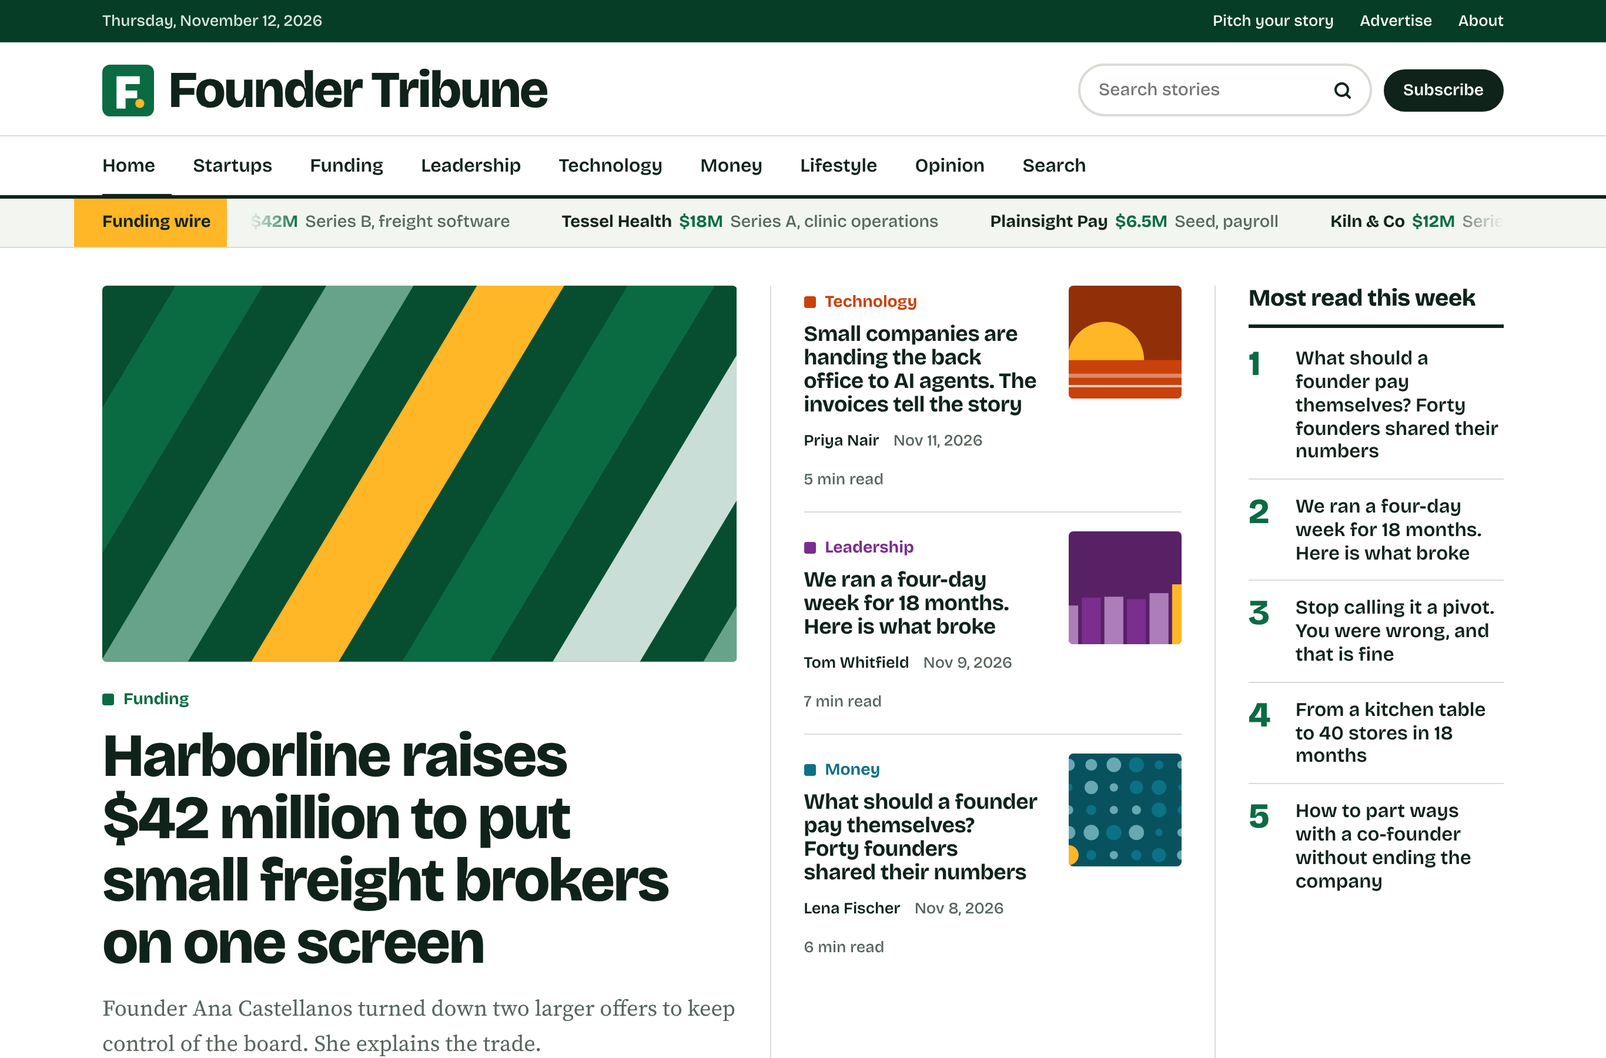
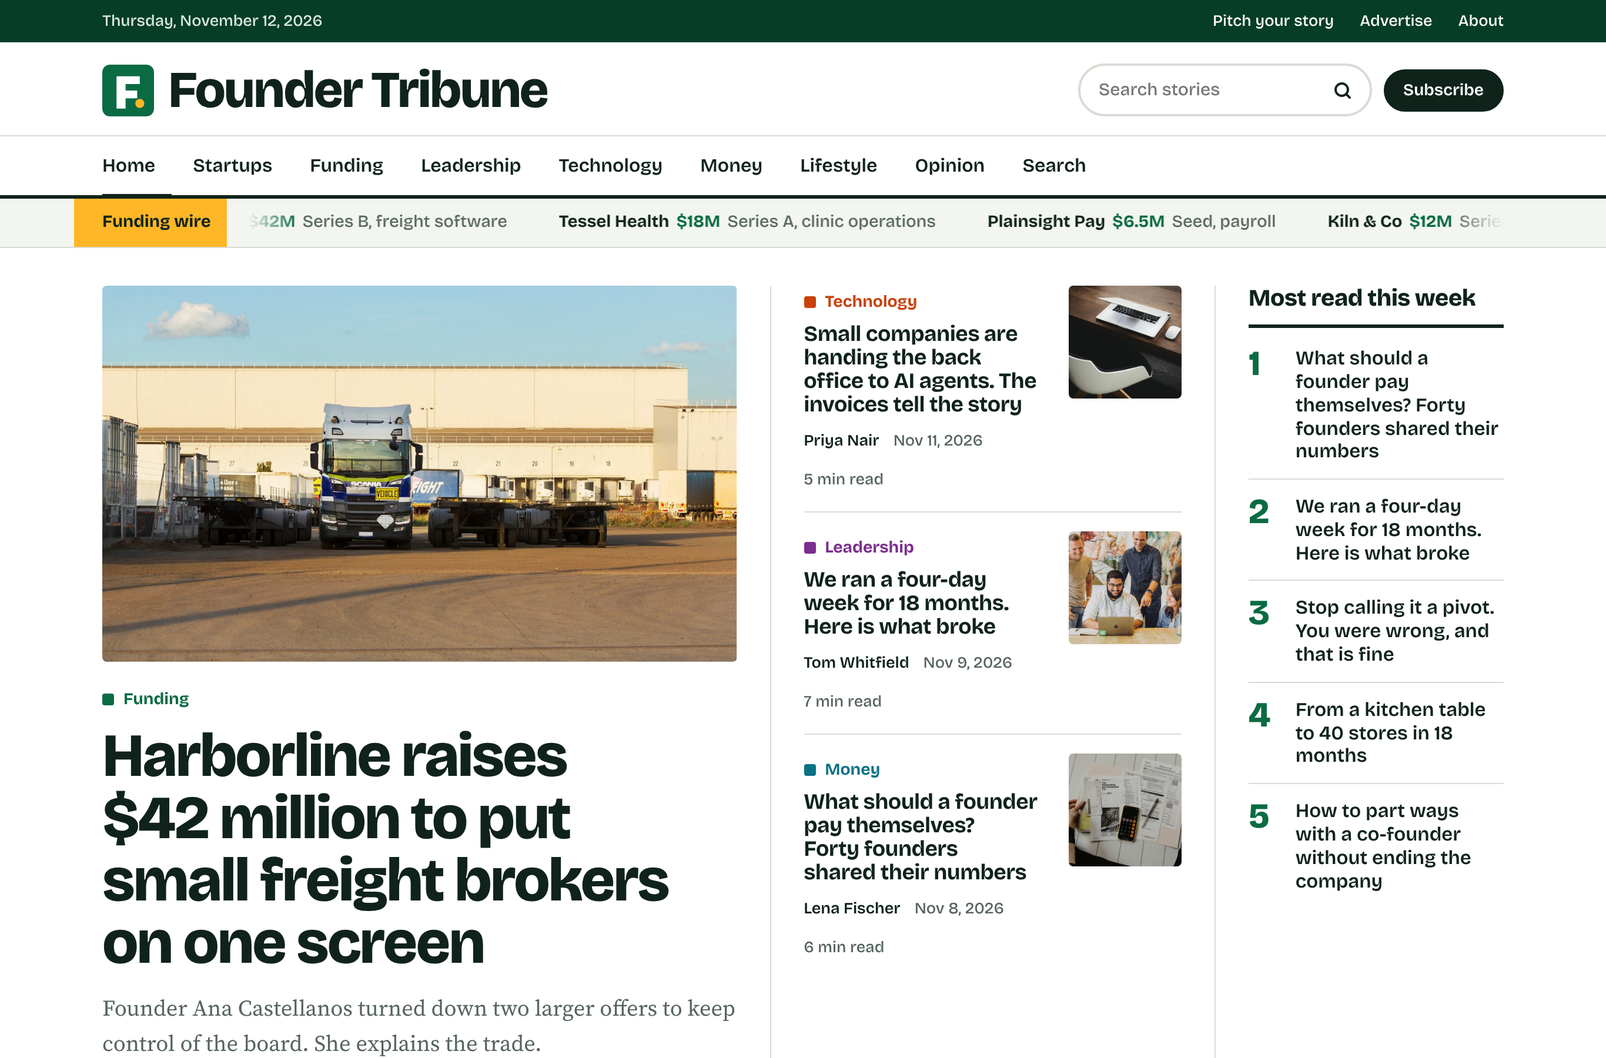
Founder Tribune: add Unsplash photos to all stories with credits
Claude-Session: https://claude.ai/code/session_013PowN5FFmdaumvsRVJsqZM

diff --git a/founder-tribune/assets/js/data.js b/founder-tribune/assets/js/data.js
@@ -1,5 +1,5 @@
 /* Founder Tribune content. Sample stories: replace with real reporting.
-   To use a photo instead of a generated cover, add  image: 'assets/img/your-photo.jpg'  to a story. */
+   Each story has image, alt and credit fields. Remove image to fall back to a generated cover. */
 window.FT = {
   config: {
     name: 'Founder Tribune',
@@ -38,7 +38,7 @@ window.FT = {
     { co: 'Sable Learning', sector: 'Workforce training', round: 'Pre-seed', amt: '$1.8M', lead: 'Open Door Fund',     date: '2026-11-03' }
   ],
   articles: [
-    { slug: 'harborline-series-b', section: 'funding', author: 'daniel', date: '2026-11-11', read: 6, featured: true,
+    { slug: 'harborline-series-b', image: 'assets/img/stories/harborline-series-b.jpg', alt: "Trucks and trailers parked in front of a warehouse", credit: { name: "Troy Mortier", url: 'https://unsplash.com/@troyscanon?utm_source=founder_tribune&utm_medium=referral' }, section: 'funding', author: 'daniel', date: '2026-11-11', read: 6, featured: true,
       title: 'Harborline raises $42 million to put small freight brokers on one screen',
       dek: 'Founder Ana Castellanos turned down two larger offers to keep control of the board. She explains the trade.',
       body: [
@@ -54,7 +54,7 @@ window.FT = {
       ],
       takeaways: ['Harborline raised $42M at Series B, led by Northgate Partners.', 'The founder rejected larger offers that required a second investor board seat.', 'Funds go to a customs product and expansion into Mexico and Canada.'] },
 
-    { slug: 'kitchen-table-to-40-stores', section: 'startups', author: 'omar', date: '2026-11-10', read: 8, featured: true, interview: true,
+    { slug: 'kitchen-table-to-40-stores', image: 'assets/img/stories/kitchen-table-to-40-stores.jpg', alt: "A potter's wheel spinning beside bowls of clay tools", credit: { name: "Taylor Heery", url: 'https://unsplash.com/@taylorheeryphoto?utm_source=founder_tribune&utm_medium=referral' }, section: 'startups', author: 'omar', date: '2026-11-10', read: 8, featured: true, interview: true,
       title: 'From a kitchen table to 40 stores in 18 months',
       dek: 'Kiln & Co founder Rosa Delgado on selling ceramics wholesale before she had a website, and why she still packs orders on Fridays.',
       quote: 'I packed the first thousand orders myself. That is how I learned what customers complain about before they complain.',
@@ -71,7 +71,7 @@ window.FT = {
       ],
       takeaways: ['Selling wholesale first gave Kiln & Co faster cash than a direct website.', 'The founder found two best sellers were losing money once a bookkeeper was hired.', 'Know your unit cost before accepting a large order.'] },
 
-    { slug: 'four-day-week-18-months', section: 'leadership', author: 'tom', date: '2026-11-09', read: 7, featured: true,
+    { slug: 'four-day-week-18-months', image: 'assets/img/stories/four-day-week-18-months.jpg', alt: "Four coworkers around a laptop at a table", credit: { name: "Jud Mackrill", url: 'https://unsplash.com/@judmackrill?utm_source=founder_tribune&utm_medium=referral' }, section: 'leadership', author: 'tom', date: '2026-11-09', read: 7, featured: true,
       title: 'We ran a four-day week for 18 months. Here is what broke',
       dek: 'Lumen Desk kept the shorter week, but only after rewriting how the support team hands over work.',
       body: [
@@ -84,7 +84,7 @@ window.FT = {
         'Marchetti does not recommend the change to every company. Teams that depend on live coverage, he says, should fix their handovers first and shorten the week second.'
       ] },
 
-    { slug: 'ai-agents-back-office', section: 'technology', author: 'priya', date: '2026-11-11', read: 5,
+    { slug: 'ai-agents-back-office', image: 'assets/img/stories/ai-agents-back-office.jpg', alt: "A laptop on a desk after work", credit: { name: "Luca Bravo", url: 'https://unsplash.com/@lucabravo?utm_source=founder_tribune&utm_medium=referral' }, section: 'technology', author: 'priya', date: '2026-11-11', read: 5,
       title: 'Small companies are handing the back office to AI agents. The invoices tell the story',
       dek: 'Three founders opened their books to show what automation saved, what it cost and where it made mistakes.',
       body: [
@@ -97,7 +97,7 @@ window.FT = {
         'Monthly bills ranged from $400 to $2,300, mostly driven by how many documents were processed. Each founder said the cost was lower than a part-time hire, and each kept a person in the approval step.'
       ] },
 
-    { slug: 'founder-salary-what-to-pay-yourself', section: 'money', author: 'lena', date: '2026-11-08', read: 6,
+    { slug: 'founder-salary-what-to-pay-yourself', image: 'assets/img/stories/founder-salary-what-to-pay-yourself.jpg', alt: "A person holding paperwork beside a pen and calculator", credit: { name: "Kelly Sikkema", url: 'https://unsplash.com/@kellysikkema?utm_source=founder_tribune&utm_medium=referral' }, section: 'money', author: 'lena', date: '2026-11-08', read: 6,
       title: 'What should a founder pay themselves? Forty founders shared their numbers',
       dek: 'Pay rose with each funding round, but the widest gap was between founders who had savings and those who did not.',
       body: [
@@ -109,7 +109,7 @@ window.FT = {
         'This was a small group and not a survey of the whole market. It does suggest a practical rule several founders repeated: set pay at the level where money stops being a daily worry, and say so plainly to your board.'
       ] },
 
-    { slug: 'founders-who-sleep', section: 'lifestyle', author: 'lena', date: '2026-11-07', read: 4,
+    { slug: 'founders-who-sleep', image: 'assets/img/stories/founders-who-sleep.jpg', alt: "A runner on a waterfront path in the city", credit: { name: "Zoshua Colah", url: 'https://unsplash.com/@zoshuacolah?utm_source=founder_tribune&utm_medium=referral' }, section: 'lifestyle', author: 'lena', date: '2026-11-07', read: 4,
       title: 'The founders who decided to sleep',
       dek: 'Five people who run growing companies describe the routines that replaced the all-nighter.',
       body: [
@@ -121,7 +121,7 @@ window.FT = {
         'Each of them said the hardest part was the first month, when the old habit still felt like commitment.'
       ] },
 
-    { slug: 'stop-calling-it-a-pivot', section: 'opinion', author: 'maya', date: '2026-11-10', read: 4,
+    { slug: 'stop-calling-it-a-pivot', image: 'assets/img/stories/stop-calling-it-a-pivot.jpg', alt: "A person arranging paper notes on a board", credit: { name: "Alvaro Reyes", url: 'https://unsplash.com/@alvarordesign?utm_source=founder_tribune&utm_medium=referral' }, section: 'opinion', author: 'maya', date: '2026-11-10', read: 4,
       title: 'Stop calling it a pivot. You were wrong, and that is fine',
       dek: 'The word lets founders skip the useful part, which is working out why the first idea failed.',
       body: [
@@ -132,7 +132,7 @@ window.FT = {
         'Investors and employees forgive being wrong. They are less patient with founders who cannot explain how.'
       ] },
 
-    { slug: 'your-first-ten-hires', section: 'opinion', author: 'tom', date: '2026-11-06', read: 5,
+    { slug: 'your-first-ten-hires', image: 'assets/img/stories/your-first-ten-hires.jpg', alt: "Two people shaking hands across a desk", credit: { name: "Mina Rad", url: 'https://unsplash.com/@miinrad?utm_source=founder_tribune&utm_medium=referral' }, section: 'opinion', author: 'tom', date: '2026-11-06', read: 5,
       title: 'Your first ten hires are your culture. Your values page is a poster',
       dek: 'What a company rewards in its first year is what it becomes. Choose those ten people accordingly.',
       body: [
@@ -143,7 +143,7 @@ window.FT = {
         'Write the values page later. For now, decide what you will praise in public this week.'
       ] },
 
-    { slug: 'investors-want-profit-again', section: 'opinion', author: 'daniel', date: '2026-11-04', read: 4,
+    { slug: 'investors-want-profit-again', image: 'assets/img/stories/investors-want-profit-again.jpg', alt: "A person signing a document", credit: { name: "Scott Graham", url: 'https://unsplash.com/@amstram?utm_source=founder_tribune&utm_medium=referral' }, section: 'opinion', author: 'daniel', date: '2026-11-04', read: 4,
       title: 'Investors say they want profit again. Check the term sheets',
       dek: 'The language has changed. The incentives inside a venture fund have not.',
       body: [
@@ -153,7 +153,7 @@ window.FT = {
         'Ask a prospective investor which of their companies chose slower growth, and what the partner did when that happened. The answer tells you more than the pitch.'
       ] },
 
-    { slug: 'orchard-grid-series-c', section: 'funding', author: 'daniel', date: '2026-11-06', read: 5,
+    { slug: 'orchard-grid-series-c', image: 'assets/img/stories/orchard-grid-series-c.jpg', alt: "A solar farm seen from above", credit: { name: "Green Voltaics Solar Energy", url: 'https://unsplash.com/@greenvoltaics?utm_source=founder_tribune&utm_medium=referral' }, section: 'funding', author: 'daniel', date: '2026-11-06', read: 5,
       title: 'Orchard Grid closes $90 million to build batteries beside farms',
       dek: 'The Series C is one of the largest energy storage rounds this quarter and comes with a factory commitment in Ohio.',
       body: [
@@ -164,7 +164,7 @@ window.FT = {
         'The company is not yet profitable. Reid says it expects to be once the factory reaches full output.'
       ] },
 
-    { slug: 'seed-rounds-getting-smaller', section: 'funding', author: 'daniel', date: '2026-11-03', read: 5,
+    { slug: 'seed-rounds-getting-smaller', image: 'assets/img/stories/seed-rounds-getting-smaller.jpg', alt: "People working at laptops around a table", credit: { name: "Cherrydeck", url: 'https://unsplash.com/@cherrydeck?utm_source=founder_tribune&utm_medium=referral' }, section: 'funding', author: 'daniel', date: '2026-11-03', read: 5,
       title: 'Seed rounds are getting smaller, and some founders prefer it',
       dek: 'Cheaper tools mean a first product costs less to build. Founders are raising less and keeping more.',
       body: [
@@ -174,7 +174,7 @@ window.FT = {
         'Clarke and her co-founder kept 82 percent of the company after the round. Several early investors told us they now see small rounds as a sign of discipline, though others worry such companies will be short of cash if growth takes longer than planned.'
       ] },
 
-    { slug: 'plainsight-payroll-launch', section: 'startups', author: 'omar', date: '2026-11-08', read: 4,
+    { slug: 'plainsight-payroll-launch', image: 'assets/img/stories/plainsight-payroll-launch.jpg', alt: "A calculator on a desk next to a laptop", credit: { name: "Jakub Żerdzicki", url: 'https://unsplash.com/@jakubzerdzicki?utm_source=founder_tribune&utm_medium=referral' }, section: 'startups', author: 'omar', date: '2026-11-08', read: 4,
       title: 'Plainsight Pay wants payroll to take one click for firms under 20 people',
       dek: 'Two former accountants built the product they wanted their clients to have.',
       body: [
@@ -184,7 +184,7 @@ window.FT = {
         'Lindqvist says investors pushed them to add benefits and HR tools. They refused, and closed a $6.5 million seed round anyway.'
       ] },
 
-    { slug: 'second-city-startups', section: 'startups', author: 'omar', date: '2026-11-05', read: 6,
+    { slug: 'second-city-startups', image: 'assets/img/stories/second-city-startups.jpg', alt: "A brick building in downtown Chattanooga", credit: { name: "Kevin Dunlap", url: 'https://unsplash.com/@kevinadunlap?utm_source=founder_tribune&utm_medium=referral' }, section: 'startups', author: 'omar', date: '2026-11-05', read: 6,
       title: 'The startups choosing second cities, and what they give up',
       dek: 'Lower rent and loyal staff on one side. Fewer investors and senior hires on the other.',
       body: [
@@ -194,7 +194,7 @@ window.FT = {
         'Founders we spoke to said second cities work best for companies that build physical things or sell to local industry. Companies that need many senior software hires found it harder.'
       ] },
 
-    { slug: 'firing-a-co-founder', section: 'leadership', author: 'tom', date: '2026-11-05', read: 7,
+    { slug: 'firing-a-co-founder', image: 'assets/img/stories/firing-a-co-founder.jpg', alt: "Two colleagues in conversation", credit: { name: "Christina @ wocintechchat.com", url: 'https://unsplash.com/@wocintechchat?utm_source=founder_tribune&utm_medium=referral' }, section: 'leadership', author: 'tom', date: '2026-11-05', read: 7,
       title: 'How to part ways with a co-founder without ending the company',
       dek: 'Three founders who went through it describe what they wish they had agreed on day one.',
       body: [
@@ -205,7 +205,7 @@ window.FT = {
         'None of the three companies failed. Each lost about six months.'
       ] },
 
-    { slug: 'the-weekly-letter', section: 'leadership', author: 'maya', date: '2026-11-02', read: 4,
+    { slug: 'the-weekly-letter', image: 'assets/img/stories/the-weekly-letter.jpg', alt: "A laptop, mug and phone on a table", credit: { name: "Andrew Neel", url: 'https://unsplash.com/@andrewtneel?utm_source=founder_tribune&utm_medium=referral' }, section: 'leadership', author: 'maya', date: '2026-11-02', read: 4,
       title: 'The weekly letter: one habit that keeps a growing team informed',
       dek: 'A short Friday note from the chief executive replaced three recurring meetings at one 60-person company.',
       body: [
@@ -215,7 +215,7 @@ window.FT = {
         'Employees told us the section on worries is the one they read first. It tells them what matters before it becomes urgent.'
       ] },
 
-    { slug: 'own-your-customer-data', section: 'technology', author: 'priya', date: '2026-11-07', read: 5,
+    { slug: 'own-your-customer-data', image: 'assets/img/stories/own-your-customer-data.jpg', alt: "A rack of servers in a server room", credit: { name: "Kevin Ache", url: 'https://unsplash.com/@kevinache?utm_source=founder_tribune&utm_medium=referral' }, section: 'technology', author: 'priya', date: '2026-11-07', read: 5,
       title: 'Founders are moving customer data back in-house',
       dek: 'Rising platform fees and sudden rule changes are pushing small companies to keep their own records.',
       body: [
@@ -225,7 +225,7 @@ window.FT = {
         'Priya Nair found that most small firms need only a database, a nightly backup and one person responsible for both.'
       ] },
 
-    { slug: 'no-code-limits', section: 'technology', author: 'priya', date: '2026-11-03', read: 5,
+    { slug: 'no-code-limits', image: 'assets/img/stories/no-code-limits.jpg', alt: "Code on a computer screen", credit: { name: "Chris Ried", url: 'https://unsplash.com/@cdr6934?utm_source=founder_tribune&utm_medium=referral' }, section: 'technology', author: 'priya', date: '2026-11-03', read: 5,
       title: 'Where no-code tools stop: lessons from three rebuilds',
       dek: 'Each company launched without engineers and later rebuilt. None regrets the first version.',
       body: [
@@ -235,7 +235,7 @@ window.FT = {
         'Their shared advice: launch fast, keep your data exportable and expect to rebuild once the product has proved itself.'
       ] },
 
-    { slug: 'equity-tax-mistakes', section: 'money', author: 'lena', date: '2026-11-04', read: 6,
+    { slug: 'equity-tax-mistakes', image: 'assets/img/stories/equity-tax-mistakes.jpg', alt: "A tax form with a pen and phone", credit: { name: "Kelly Sikkema", url: 'https://unsplash.com/@kellysikkema?utm_source=founder_tribune&utm_medium=referral' }, section: 'money', author: 'lena', date: '2026-11-04', read: 6,
       title: 'Five equity tax mistakes founders make in year one',
       dek: 'Missing one filing deadline can cost more than the first year of salary. An adviser walks through the common errors.',
       body: [
@@ -245,7 +245,7 @@ window.FT = {
         'This article is general information and not tax advice. Rules differ by country and state, so speak to a qualified adviser before you act.'
       ] },
 
-    { slug: 'founder-sabbatical', section: 'lifestyle', author: 'lena', date: '2026-11-01', read: 5,
+    { slug: 'founder-sabbatical', image: 'assets/img/stories/founder-sabbatical.jpg', alt: "A hiker with a backpack on a mountain trail", credit: { name: "Holly Mandarich", url: 'https://unsplash.com/@hollymandarich?utm_source=founder_tribune&utm_medium=referral' }, section: 'lifestyle', author: 'lena', date: '2026-11-01', read: 5,
       title: 'She took a month off from her own company. It kept running',
       dek: 'A planned sabbatical showed one founder which decisions only she could make. There were fewer than she thought.',
       body: [

diff --git a/founder-tribune/assets/js/site.js b/founder-tribune/assets/js/site.js
@@ -18,7 +18,7 @@
   function rng(seed) { let h = 2166136261; for (const c of seed) { h ^= c.charCodeAt(0); h = Math.imul(h, 16777619); } return () => { h += 0x6D2B79F5; let t = h; t = Math.imul(t ^ t >>> 15, t | 1); t ^= t + Math.imul(t ^ t >>> 7, t | 61); return ((t ^ t >>> 14) >>> 0) / 4294967296; }; }
   function mix(hex, to, amt) { const p = h => [1, 3, 5].map(i => parseInt(h.slice(i, i + 2), 16)); const a = p(hex), b = p(to); return '#' + a.map((v, i) => Math.round(v + (b[i] - v) * amt).toString(16).padStart(2, '0')).join(''); }
   function cover(a) {
-    if (a.image) return `<span class="cover"><img src="${esc(a.image)}" alt="" loading="lazy"></span>`;
+    if (a.image) return `<span class="cover"><img src="${esc(a.image)}" alt="${esc(a.alt || '')}" loading="lazy" decoding="async" width="1400" height="875"></span>`;
     const r = rng(a.slug), c = sec(a.section).color;
     const bg = mix(c, '#000000', .28), lite = mix(c, '#ffffff', .38), pale = mix(c, '#ffffff', .78), gold = '#ffb627';
     const kind = Math.floor(r() * 5); let g = '';
@@ -169,7 +169,7 @@
           <div class="byline"><div class="byline-who"><span class="avatar">${initials(au.name)}</span><span><b>${esc(au.name)}</b><span>${esc(au.role)}, ${fmt(a.date, { month: 'long', day: 'numeric', year: 'numeric' })}, ${a.read} min read</span></span></div>
             <div class="share"><span>Share</span><a href="https://www.linkedin.com/sharing/share-offsite/?url=${here}" target="_blank" rel="noopener">LinkedIn</a><a href="https://twitter.com/intent/tweet?url=${here}&text=${t}" target="_blank" rel="noopener">X</a><a href="mailto:?subject=${t}&body=${here}">Email</a><button type="button" id="copy">Copy link</button></div></div>
         </div></header>
-        <div class="article-cover"><div class="wrap">${cover(a)}</div></div>
+        <figure class="article-cover"><div class="wrap">${cover(a)}${a.credit ? `<figcaption>${esc(a.alt || '')}. Photo by <a href="${esc(a.credit.url)}" target="_blank" rel="noopener">${esc(a.credit.name)}</a> on <a href="https://unsplash.com/?utm_source=founder_tribune&utm_medium=referral" target="_blank" rel="noopener">Unsplash</a></figcaption>` : ''}</div></figure>
         <div class="article-body">
           <div>${a.takeaways ? `<section class="takeaways"><h2>Key points</h2><ul>${a.takeaways.map(x => `<li>${esc(x)}</li>`).join('')}</ul></section>` : ''}
             <div class="prose">${body}</div>

diff --git a/founder-tribune/assets/css/style.css b/founder-tribune/assets/css/style.css
@@ -225,6 +225,10 @@ a:hover > .cover svg, a:hover > .cover img, .story:hover .cover svg, .story:hove
 .share { display: flex; gap: 8px; align-items: center; font-family: var(--display); font-size: 14px; }
 .share a, .share button { border: 2px solid var(--rule); background: #fff; border-radius: 999px; padding: 8px 14px; font-weight: 600; cursor: pointer; font-size: 14px; }
 .share a:hover, .share button:hover { border-color: var(--ink); }
+.article-cover { margin: 0; }
+.article-cover figcaption { font-family: var(--display); font-size: 13.5px; color: var(--muted); margin-top: 10px; }
+.article-cover figcaption a { text-decoration: underline; text-underline-offset: 2px; }
+.cover img { height: 100%; }
 .article-cover .cover { aspect-ratio: 16 / 8.5; border-radius: 6px; }
 .article-body { display: grid; grid-template-columns: minmax(0, 1fr) 300px; gap: 64px; max-width: 1060px; margin: 0 auto; padding: 40px 24px 64px; }
 .prose { font-size: 20px; line-height: 1.65; max-width: 66ch; }

diff --git a/founder-tribune/CREDITS.md b/founder-tribune/CREDITS.md
@@ -1,0 +1,25 @@
+# Photo credits
+
+All story photos are from [Unsplash](https://unsplash.com) under the Unsplash License.
+
+| Story | Photographer | Photo |
+|---|---|---|
+| harborline-series-b | [Troy Mortier](https://unsplash.com/@troyscanon) | https://unsplash.com/photos/xkAIwD0hsbg |
+| kitchen-table-to-40-stores | [Taylor Heery](https://unsplash.com/@taylorheeryphoto) | https://unsplash.com/photos/ZSgWcW70cTs |
+| four-day-week-18-months | [Jud Mackrill](https://unsplash.com/@judmackrill) | https://unsplash.com/photos/Of_m3hMsoAA |
+| ai-agents-back-office | [Luca Bravo](https://unsplash.com/@lucabravo) | https://unsplash.com/photos/9l_326FISzk |
+| founder-salary-what-to-pay-yourself | [Kelly Sikkema](https://unsplash.com/@kellysikkema) | https://unsplash.com/photos/xoU52jUVUXA |
+| founders-who-sleep | [Zoshua Colah](https://unsplash.com/@zoshuacolah) | https://unsplash.com/photos/Ughp996FKQI |
+| stop-calling-it-a-pivot | [Alvaro Reyes](https://unsplash.com/@alvarordesign) | https://unsplash.com/photos/qWwpHwip31M |
+| your-first-ten-hires | [Mina Rad](https://unsplash.com/@miinrad) | https://unsplash.com/photos/qFSQFSmfZkA |
+| investors-want-profit-again | [Scott Graham](https://unsplash.com/@amstram) | https://unsplash.com/photos/OQMZwNd3ThU |
+| orchard-grid-series-c | [Green Voltaics Solar Energy](https://unsplash.com/@greenvoltaics) | https://unsplash.com/photos/Dcm6iH-xAL4 |
+| seed-rounds-getting-smaller | [Cherrydeck](https://unsplash.com/@cherrydeck) | https://unsplash.com/photos/rMILC1PIwM0 |
+| plainsight-payroll-launch | [Jakub Żerdzicki](https://unsplash.com/@jakubzerdzicki) | https://unsplash.com/photos/8wLZi9OhsWU |
+| second-city-startups | [Kevin Dunlap](https://unsplash.com/@kevinadunlap) | https://unsplash.com/photos/KPT2I4wF_L4 |
+| firing-a-co-founder | [Christina @ wocintechchat.com](https://unsplash.com/@wocintechchat) | https://unsplash.com/photos/eF7HN40WbAQ |
+| the-weekly-letter | [Andrew Neel](https://unsplash.com/@andrewtneel) | https://unsplash.com/photos/cckf4TsHAuw |
+| own-your-customer-data | [Kevin Ache](https://unsplash.com/@kevinache) | https://unsplash.com/photos/2JJ3wBHu4_0 |
+| no-code-limits | [Chris Ried](https://unsplash.com/@cdr6934) | https://unsplash.com/photos/ieic5Tq8YMk |
+| equity-tax-mistakes | [Kelly Sikkema](https://unsplash.com/@kellysikkema) | https://unsplash.com/photos/M98NRBuzbpc |
+| founder-sabbatical | [Holly Mandarich](https://unsplash.com/@hollymandarich) | https://unsplash.com/photos/UVyOfX3v0Ls |

diff --git a/founder-tribune/README.md b/founder-tribune/README.md
@@ -8,7 +8,7 @@ Front page, section pages (`section.html?s=funding`), story pages (`article.html
 ## Editing content
 Everything lives in `assets/js/data.js`:
 - `articles`: add a story by copying an existing entry. In `body`, start a line with `## ` for a subheading and `> ` for a pull quote.
-- `image: 'assets/img/photo.jpg'` on a story replaces the generated cover with a real photo.
+- Each story has `image`, `alt` and `credit` fields. Photos are from Unsplash and listed in `CREDITS.md`. Remove `image` to fall back to a generated cover.
 - `wire`: the funding rounds shown in the ticker and table.
 - `sections`, `authors`: names, colours and bios.
 - `config`: email addresses, social links and form endpoints.
